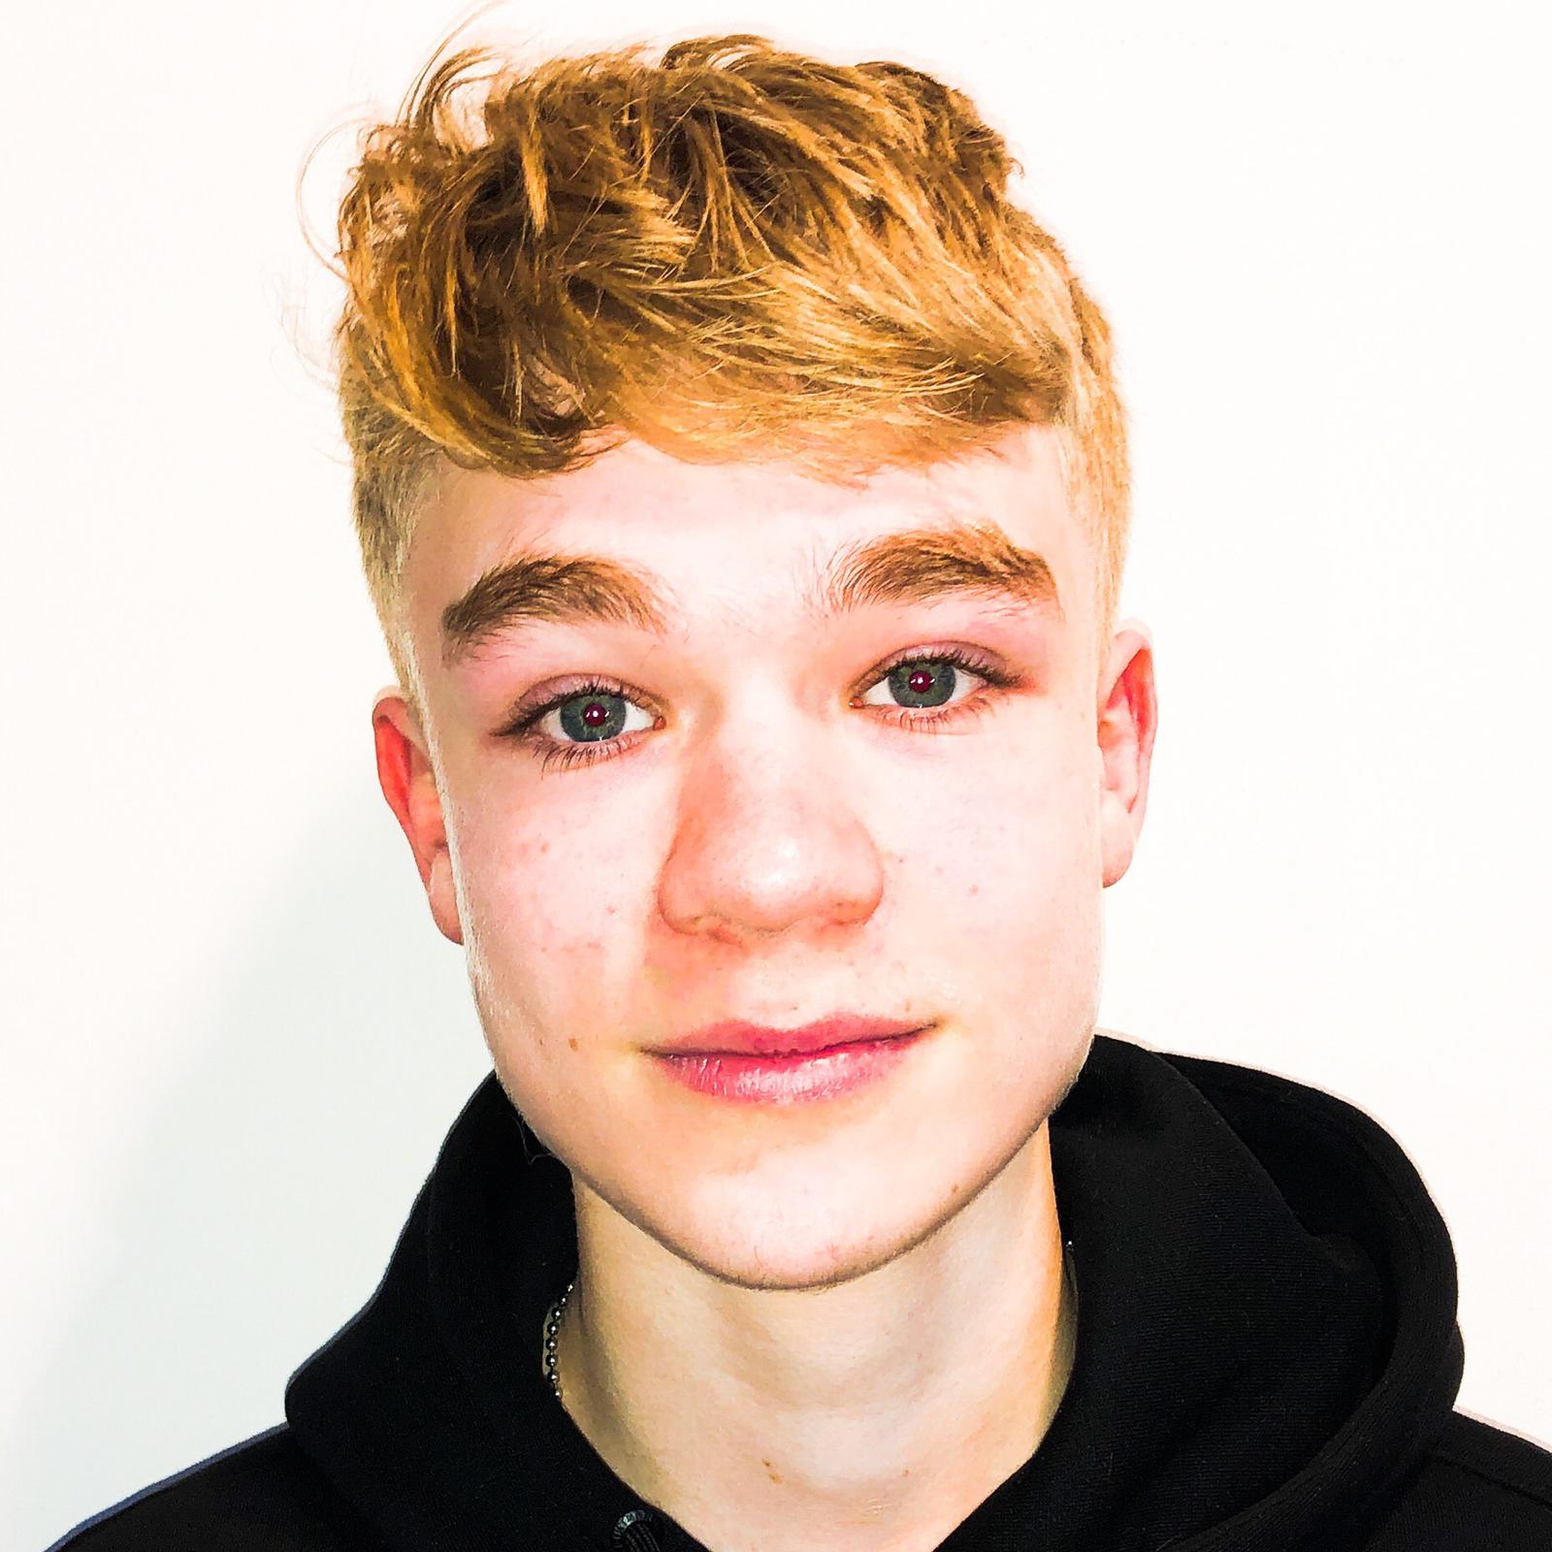
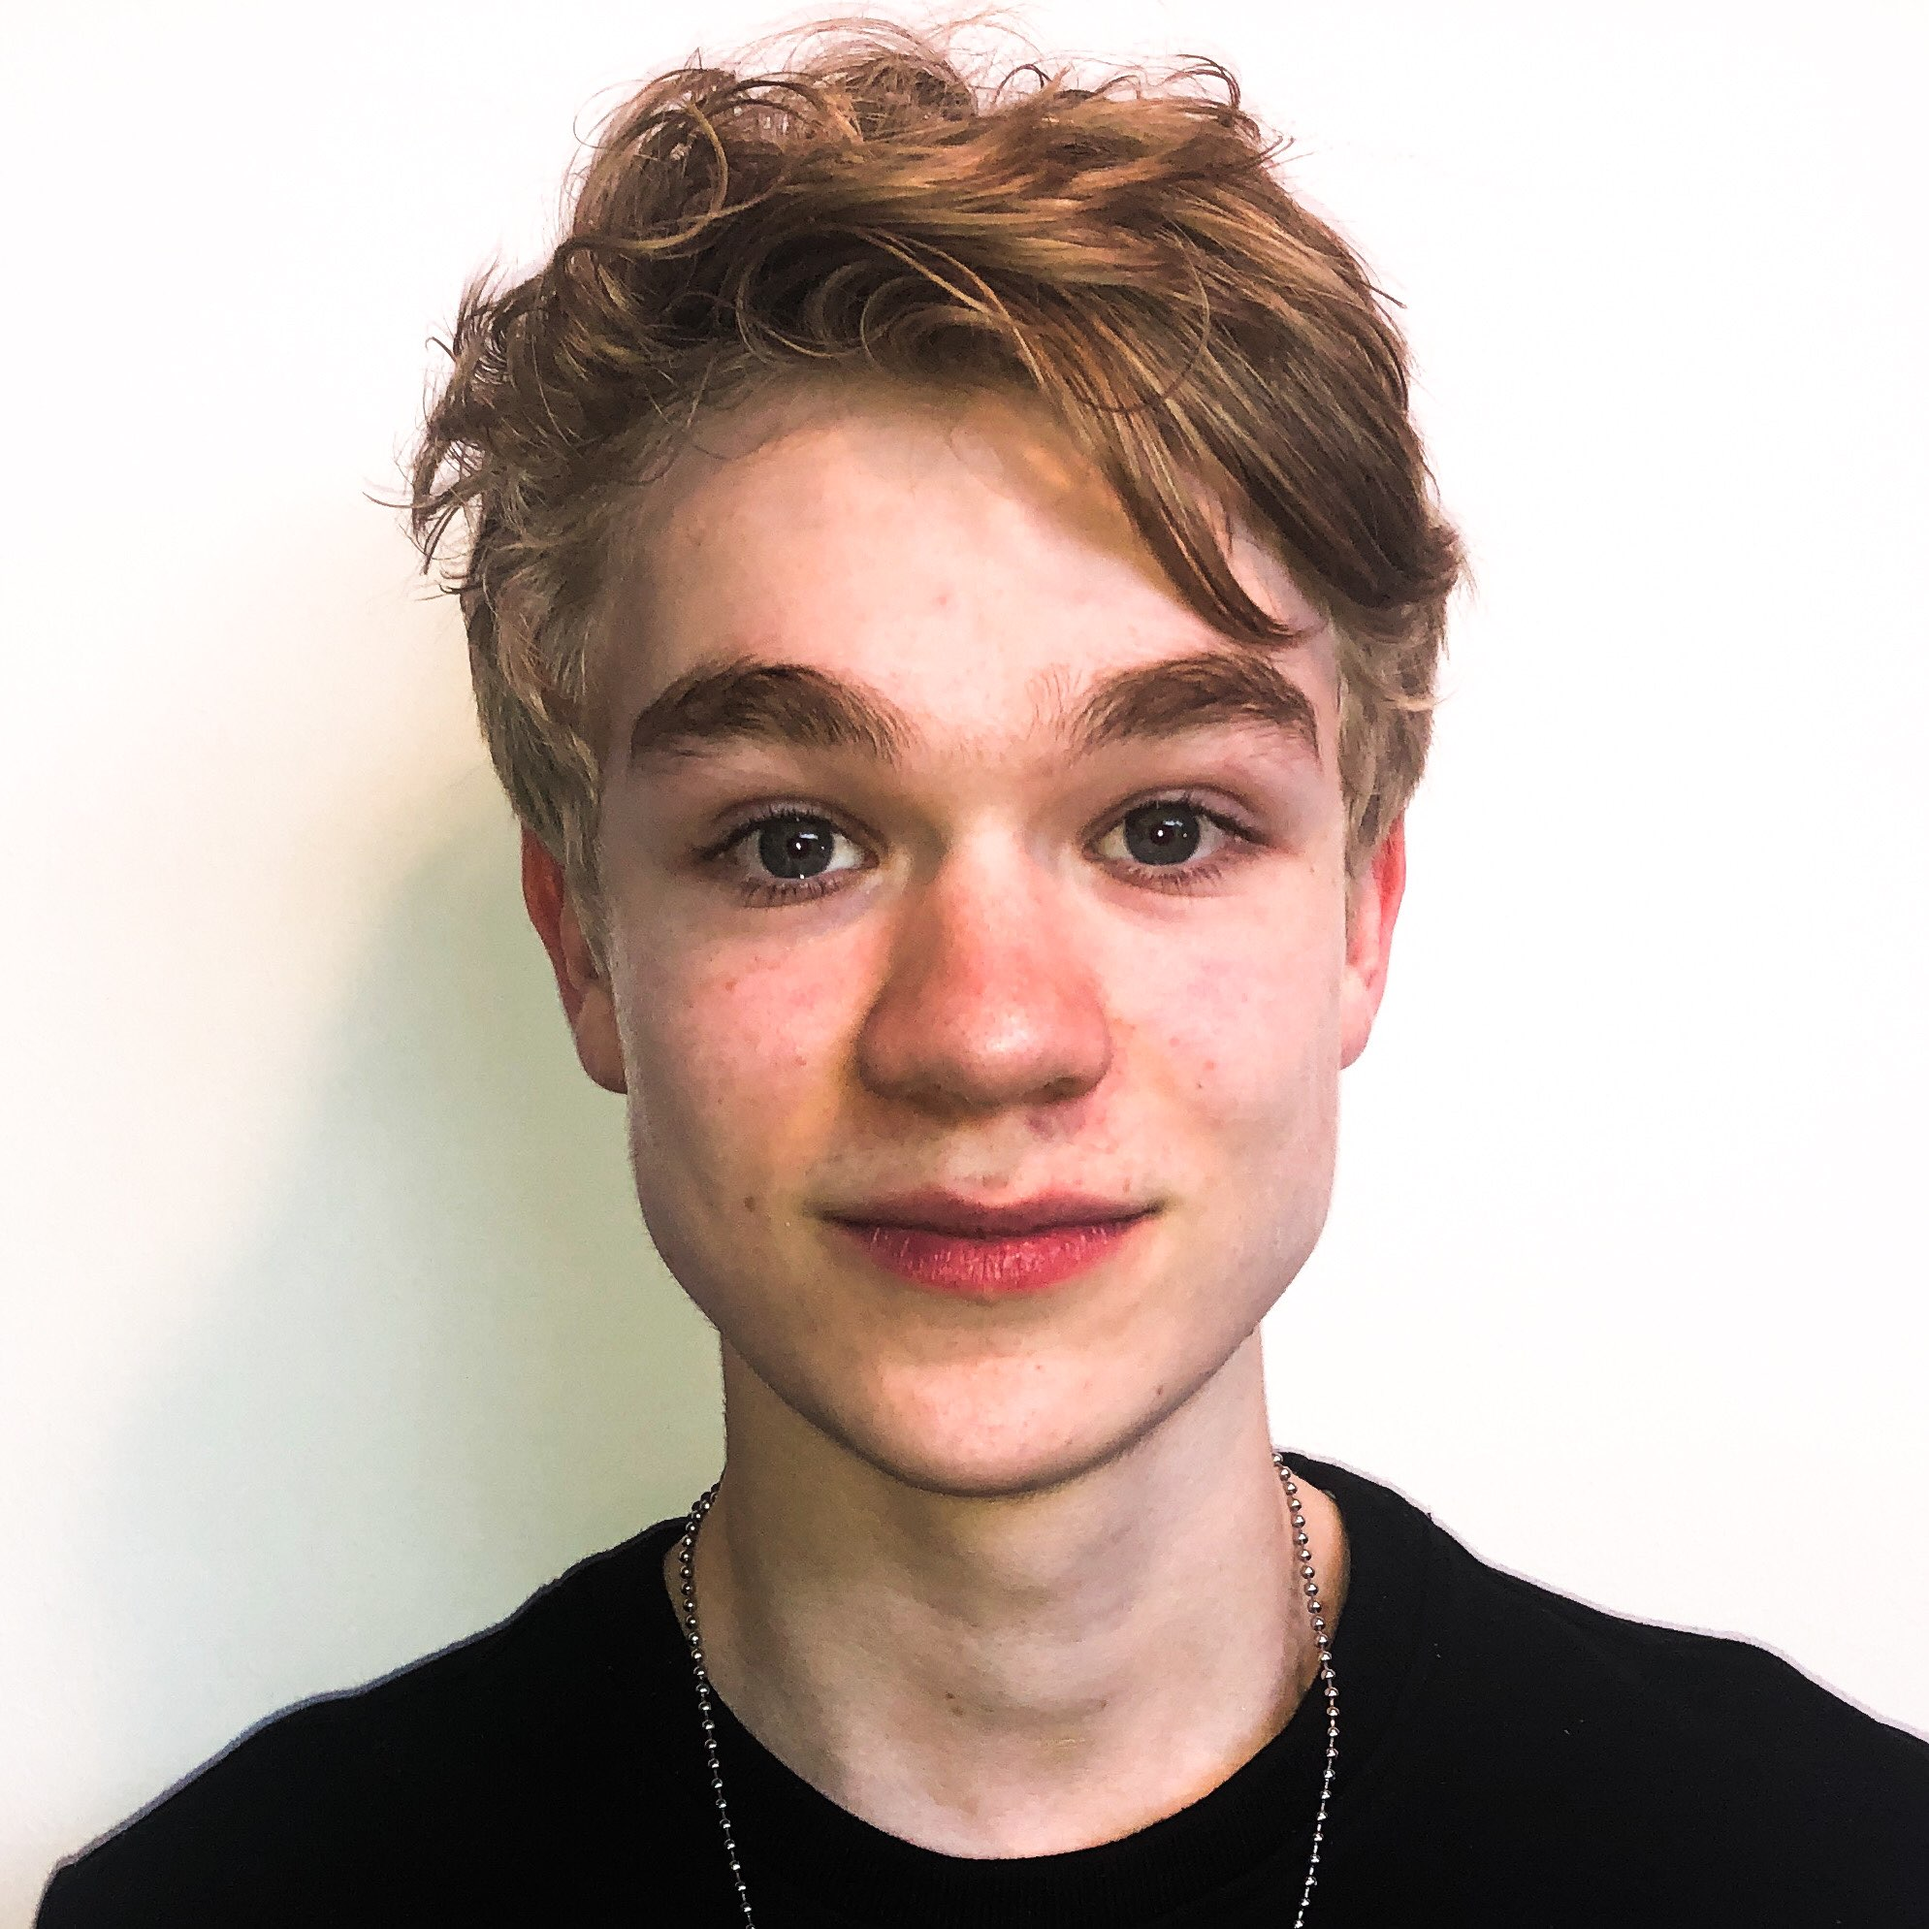
2
2

diff --git a/groepssite/indexstyle.css b/groepssite/indexstyle.css
@@ -37,7 +37,7 @@
     align-content: center;
     margin-left: 1000px;
     margin-top: -700px;
-    background-image: url(indexresource/groepsfoto.png);
+    background-image: url(indexresource/groepsfoto.jpg);
     background-size: 768px auto;
     border:5px solid #B27563;
 }
@@ -48,6 +48,7 @@
     background-color: #F0BAA0;
     margin-left: 339px;
     margin-top: -900px;
+    border: 2px solid gray;
 }
 
 #individual #cedricpic {
@@ -55,7 +56,7 @@
     height:250px;
     background-color: blue;
     margin-left: 359px;
-    margin-top: -287px;
+    margin-top: -300px;
     background-image: url(groepfotos/cedric.jpg);
     background-size: 250px auto;
 }
@@ -86,7 +87,7 @@
     background-color: green;
     margin-left: 1143px;
     margin-top: -250px;
-    background-image: url(groepfotos/youri.png);
+    background-image: url(groepfotos/youri.jpg);
     background-size: 250px auto;
 }
 
@@ -110,6 +111,43 @@
     background-size: 250px auto;
 }
 
+#indi-text {
+    margin-top: -8%;
+    margin-left: 20%;
+}
+
+#indi-text #cedricname {
+    float: left;
+    padding: 10% 2%;
+}
+
+#indi-text #basname {
+    float: left;
+    padding: 10% 2%;
+    padding-left: 7%;
+}
+
+#indi-text #ronanname {
+    float: left;
+    padding: 10% 2%;
+    padding-left: 5%;
+}
+#indi-text #youriname {
+    float: left;
+    padding: 10% 2%;
+    padding-left: 3%;
+}
+#indi-text #nikkiname {
+    float: left;
+    padding: 10% 2%;
+    padding-left: 3%;
+}
+
+#indi-text #robertname {
+    float: left;
+    padding: 10% 2%;
+    padding-left: 2.25%;
+}
 
 
 

diff --git a/groepssite/index.html b/groepssite/index.html
@@ -15,16 +15,13 @@
     <nav>
         <ul>
             <li><a href="index.html">Home</a></li>
-                <hr align="left" width="80%";>
+                <hr align="left" width="80%" color="gray";>
             <li><a href="cedric.html">Cedric</a></li>
             <li><a href="bas.html">Bas</a></li>
             <li><a href="ronan.html">Ronan</a></li>
             <li><a href="youri.html">Youri</a></li>
             <li><a href="nikki.html">Nikki</a></li>
             <li><a href="robert.html">Robert</a></li>
-                <hr align="left" width="80%";>
-            <li><a href="index.html">Labs</a></li>
-            <li><a href="index.html">Kennistoets</a></li>
         </ul>
     </nav>
 </div>
@@ -47,6 +44,14 @@
     <div id = "youripic"></div>
     <div id = "nikkipic"></div>
     <div id = "robertpic"></div>
+</div>
+<div id = "indi-text">
+    <div id = "cedricname"><h2>Cedric Arentz</h2></div>
+    <div id = "basname"><h2>Bas Roethof</h2></div>
+    <div id = "ronanname"><h2>Ronan Haveman</h2></div>
+    <div id = "youriname"><h2>Youri Schuilenburg</h2></div>
+    <div id = "nikkiname"><h2>Nikki van Braam</h2></div>
+    <div id = "robertname"><h2>Robert Huisman</h2></div>
 </div>
 
 </body>
